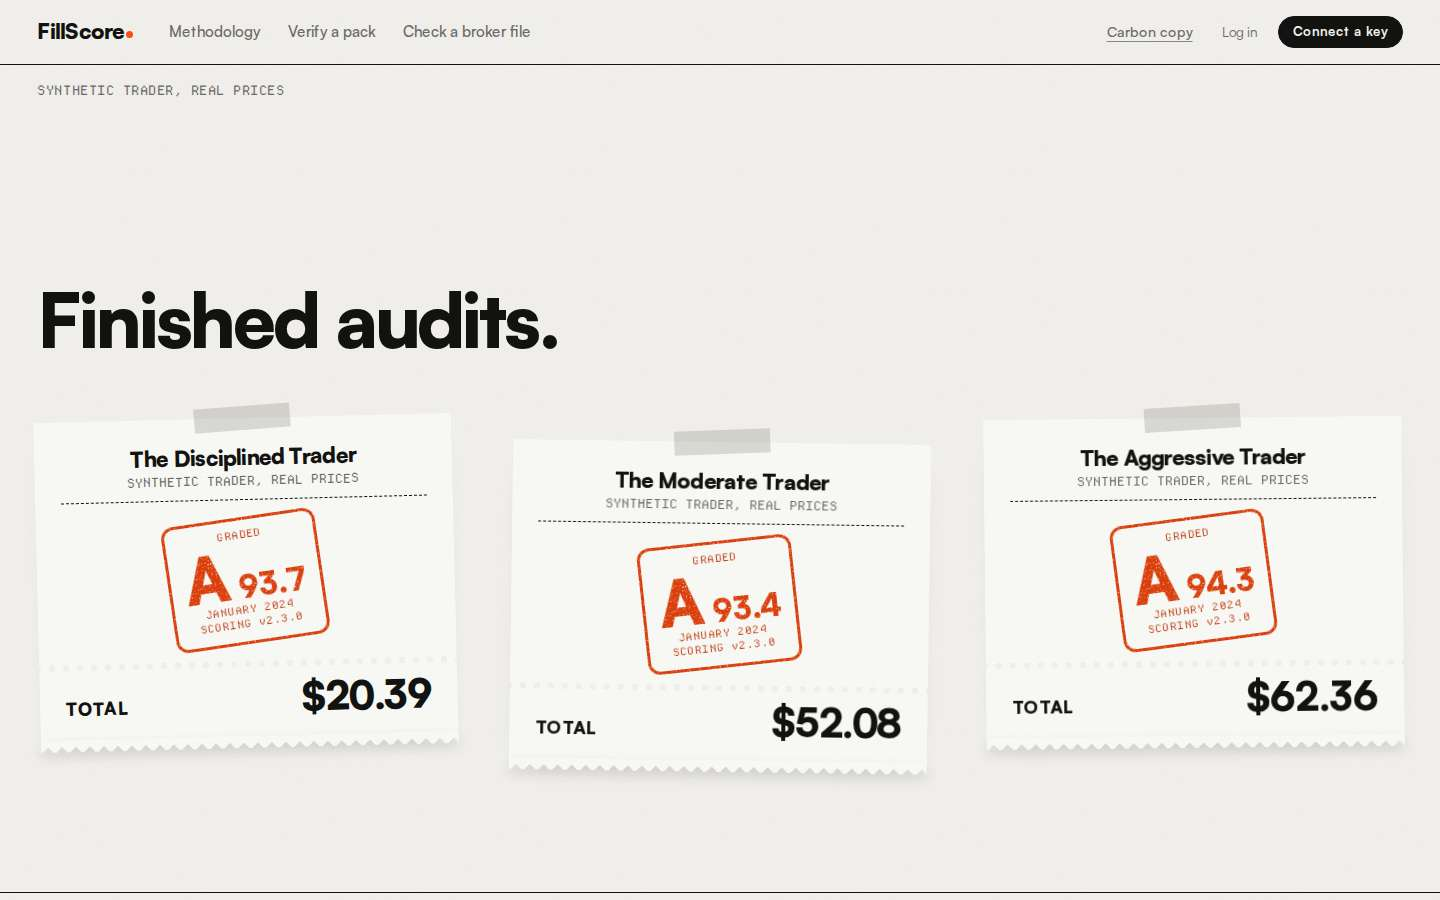
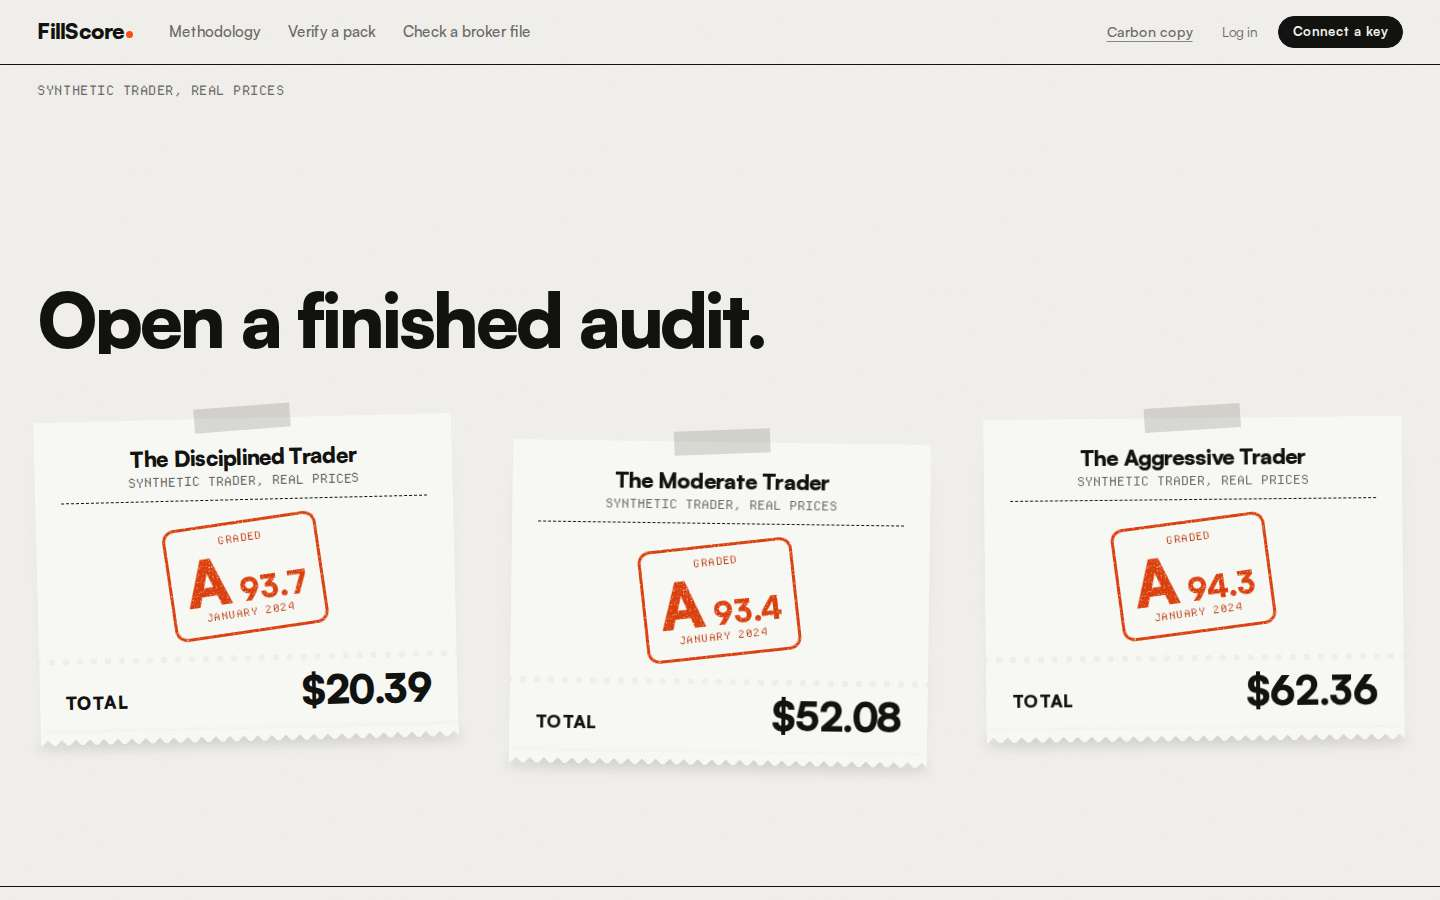
design v3.1 QA: reviewer fixes, final images, M8 report, progress

diff --git a/frontend/app/dashboard/Overview.tsx b/frontend/app/dashboard/Overview.tsx
@@ -48,7 +48,7 @@ function Total({ headline, periodLabel, sampleNote }: Pick<OverviewProps, 'headl
   return (
     <Chapter n={1} label="Total" title={`What the orders paid, ${periodLabel}`} id="total" testId="headline" className="border-t-0 pt-0">
       {sampleNote ? (
-        <p data-testid="sample-line" className="mb-5 flex flex-wrap items-center gap-x-2 gap-y-1 font-mono text-[13px] tracking-[0.04em] text-ui-ink uppercase">
+        <p data-testid="sample-line" className="mb-8 font-mono text-[13px] tracking-[0.04em] text-ui-ink uppercase">
           <span>Sample data: synthetic trader, real prices</span>
           <MarginNote label="sample data">
             <p>{sampleNote}</p>
@@ -63,7 +63,7 @@ function Total({ headline, periodLabel, sampleNote }: Pick<OverviewProps, 'headl
             style={{ fontSize: `min(15rem, calc(100cqi / ${(formatUsd(headline.totalUsd).length * 0.6).toFixed(2)}))` }}>
             <SplitFigure value={headline.totalUsd} text={formatUsd(headline.totalUsd)} format={USD_FORMAT} />
           </p>
-          <p className="mt-7 flex flex-wrap items-baseline gap-x-2 text-[clamp(1.25rem,1.9vw,1.625rem)] leading-snug font-bold tracking-[-0.02em] text-ui-ink">
+          <p className="mt-7 text-[clamp(1.25rem,1.9vw,1.625rem)] leading-snug font-bold tracking-[-0.02em] text-ui-ink">
             <span>The {headline.orders.toLocaleString('en-US')} {headline.orders === 1 ? 'order' : 'orders'} paid{' '}
               <Figure value={headline.totalUsd} text={formatUsd(headline.totalUsd)} format={USD_FORMAT} /> in total.</span>
             <MarginNote label="the total in basis points">
@@ -113,7 +113,7 @@ function Grade({ grade, band, v1, v1Note, periodLabel, account }: Pick<OverviewP
   }, [play, ref])
   return (
     <Chapter n={2} label="Grade" title="Measured grade" id="grade">
-      <div ref={ref} className="flex flex-col items-start gap-6 sm:flex-row sm:items-center sm:gap-12">
+      <div ref={ref} className="flex flex-col items-start gap-6 pt-6 sm:flex-row sm:items-center sm:gap-12">
         {grade?.kind === 'graded' ? (
           // below the desktop layout the stamp's -7° turn swings its top-left corner past its box (design v3 fixes A10)
           <div className="py-4 pl-5 sm:pl-2">
@@ -126,7 +126,7 @@ function Grade({ grade, band, v1, v1Note, periodLabel, account }: Pick<OverviewP
         ) : <div className="h-[230px] w-[280px]" aria-label="Loading the measured grade" />}
         <div className="flex max-w-[34ch] flex-col gap-3">
           {grade?.kind === 'graded' ? (
-            <p className="flex flex-wrap items-baseline gap-x-2 text-[20px] leading-snug font-bold tracking-[-0.02em] text-ui-ink">
+            <p className="text-[20px] leading-snug font-bold tracking-[-0.02em] text-ui-ink">
               <span>Graded {grade.letter}, {formatScore(grade.score)} of 100.</span>
               <MarginNote label="the measured score">
                 <p>Measured score, scoring {grade.scoringVersion}{band ? `; band ${formatScore(band[0])} to ${formatScore(band[1])}` : ''}.</p>
@@ -134,8 +134,9 @@ function Grade({ grade, band, v1, v1Note, periodLabel, account }: Pick<OverviewP
               </MarginNote>
             </p>
           ) : null}
-          <p data-testid="score-v1-label" className="flex flex-wrap items-baseline gap-x-2 text-[16px] text-ui-graphite">
-            {v1 ? <span>Rule-based score, grade {v1.grade}</span> : <span>Rule-based score (v1): not computed for this data.</span>}
+          <p data-testid="score-v1-label" className="text-[16px] text-ui-graphite">
+            {/* design v3.1 review: the visible line says it is the frozen v1 grade, so A beside B reads as two scorings */}
+            {v1 ? <span>Rule-based score, grade {v1.grade} (v1, frozen)</span> : <span>Rule-based score (v1): not computed for this data.</span>}
             {v1 ? (
               <MarginNote label="the rule-based score">
                 <p data-testid="score-v1-detail">{formatScore(v1.score)} of 100, {v1.basis ?? 'published grade of the earlier demo data, scoring v1'}.</p>
@@ -300,7 +301,7 @@ function Expected({ c, account }: { c: CostVsExpected | undefined; account: stri
       <h3 id="cost-vs-expected-t" className="sr-only">Cost against expected</h3>
       {sentence && c && !c.insufficient ? (
         <div ref={ref} className="flex flex-col gap-3">
-          <p className="flex flex-wrap items-baseline gap-x-2 text-[20px] leading-snug font-bold tracking-[-0.02em] text-ui-ink">
+          <p className="text-[20px] leading-snug font-bold tracking-[-0.02em] text-ui-ink">
             <span>Market orders paid <Fig text={formatSignedBps(c.paidBps)} exact={exactTitle(c.paidBps, 'bps')} /> against <Fig text={formatSignedBps(c.expectedBps)} exact={exactTitle(c.expectedBps, 'bps')} /> expected.</span>
             <MarginNote label="cost against expected">
               <p data-testid="cost-sentence">{sentence}</p>
@@ -337,8 +338,9 @@ function Outcomes({ ordersBody }: { ordersBody: unknown }) {
         <ValueState state="not-computed" label="Order outcomes" reason="No orders were recorded for these fills." />
       ) : (
         <div className="flex flex-col gap-4">
-          <p className="flex flex-wrap items-baseline gap-x-2 text-[20px] leading-snug font-bold tracking-[-0.02em] text-ui-ink">
-            <span>Orders {(counts?.orders ?? o.total).toLocaleString('en-US')}</span>
+          {/* demoted (design v3.1 review): the ruler carries chapter 05; the outcomes are its second, quieter line */}
+          <p className="text-[16px] text-ui-graphite">
+            <span>How the {(counts?.orders ?? o.total).toLocaleString('en-US')} orders ended</span>
             <MarginNote label="order outcomes">
               {counts ? <p data-testid="orders-counts">{fillsLine(counts)}</p> : null}
               <p>How each order ended, from the exchange&rsquo;s order records.{per > 1 ? ` One stroke stands for ${per} orders.` : ''}</p>

diff --git a/frontend/app/components/marketing/HowItReads.tsx b/frontend/app/components/marketing/HowItReads.tsx
@@ -72,7 +72,7 @@ export function HowItReads() {
       <p className="fs-reads-prov font-mono text-[13px] tracking-[0.04em] text-ui-graphite">SYNTHETIC TRADER, REAL PRICES</p>
       <div ref={track} className="fs-reads-row">
         <article className="fs-reads-panel">
-          <p className="font-mono text-[13px] tracking-[0.04em] text-ui-graphite">01</p>
+          <p className="fs-reads-num font-mono text-[13px] tracking-[0.04em] text-ui-graphite">01</p>
           <h3 data-panel-title className="display-md text-ui-ink">What we read.</h3>
           <p className="max-w-[30ch] text-[18px] leading-snug text-ui-ink">Every print, to the second.</p>
           <div className="fs-strip fs-sprockets fs-reads-tape" role="img" aria-label={`Seven public ${heroTape.symbol} prints from the order above, Binance, 28 January 2024`}>
@@ -82,10 +82,13 @@ export function HowItReads() {
           </div>
         </article>
         <article className="fs-reads-panel">
-          <p className="font-mono text-[13px] tracking-[0.04em] text-ui-graphite">02</p>
+          <p className="fs-reads-num font-mono text-[13px] tracking-[0.04em] text-ui-graphite">02</p>
           <h3 data-panel-title className="display-md text-ui-ink">What it cost.</h3>
           <p className="max-w-[30ch] text-[18px] leading-snug text-ui-ink">Each order, in dollars.</p>
           <div className="fs-receipt fs-reads-receipt shadow-ui">
+            {/* invariant 4: a demo receipt carries its own provenance line (design v3.1 review) */}
+            <p className="c g">SYNTHETIC TRADER, REAL PRICES</p>
+            <hr />
             <div className="fs-lines">
               <span className="g">01</span><span className="lab">Spread</span><span className="num" /><span className="num">{formatUsd(heroCosts.spread.usd)}</span>
               <span className="g">02</span><span className="lab">Impact and timing</span><span className="num" /><span className="num">{formatUsd(heroCosts.impactTiming.usd)}</span>
@@ -96,7 +99,7 @@ export function HowItReads() {
           </div>
         </article>
         <article className="fs-reads-panel">
-          <p className="font-mono text-[13px] tracking-[0.04em] text-ui-graphite">03</p>
+          <p className="fs-reads-num font-mono text-[13px] tracking-[0.04em] text-ui-graphite">03</p>
           <h3 data-panel-title className="display-md text-ui-ink">The grade.</h3>
           <p className="max-w-[30ch] text-[18px] leading-snug text-ui-ink">One letter, stamped once.</p>
           <div className="flex min-h-[220px] items-center pl-4">

diff --git a/frontend/app/components/marketing/CheckIt.tsx b/frontend/app/components/marketing/CheckIt.tsx
@@ -18,6 +18,7 @@ const ROWS = [
 ]
 const LINKS = [
   { href: '/verify', title: 'Verify a pack', text: 'Drop a pack in; each hash and the signature are checked in the browser.' },
+  { href: 'https://github.com/DeepanshuOP/FillScore/tree/main/packages/fillscore-metrics', title: 'fillscore-metrics', text: 'The open measurement package.' },
 ]
 
 export function CheckIt() {
@@ -36,9 +37,10 @@ export function CheckIt() {
         <div>
           <h2 id="check-title" data-split className="display-lg text-ui-ink">Check it yourself.</h2>
           <p className="mt-4 max-w-[52ch] text-[17px] leading-7 text-ui-graphite">
-            Every audit ships signed.{' '}
+            Real audits can ship signed.
             <MarginNote label="the evidence pack">
               <p>An evidence pack lists every file behind an audit with its SHA-256 and signs the list with Ed25519. Anyone can check a pack in the browser; the file never leaves it.</p>
+              <p>Demo audits have no pack: nothing of a synthetic trader is signed. The sample beside lists the real sources of the order above.</p>
               <p>The signature covers the list, not each file: each file is checked against its hash.</p>
             </MarginNote>
           </p>
@@ -56,7 +58,7 @@ export function CheckIt() {
 
         <div ref={ref} className="fs-envelope" data-open={seen} aria-label="A manifest of file hashes and its signature">
           <div className="fs-env-sheet">
-            <p className="font-mono text-[11px] tracking-[0.06em] text-ui-graphite uppercase">manifest.json</p>
+            <p className="font-mono text-[11px] tracking-[0.06em] text-ui-graphite uppercase">sample manifest.json</p>
             <ul className="mt-3 border-t border-dashed border-ui-ink font-mono text-[12px]">
               {ROWS.map((r, i) => (
                 <li key={r.hash} className="grid grid-cols-[2.5rem_minmax(0,1fr)] gap-x-2 border-b border-dashed border-ui-rule py-2.5">

diff --git a/frontend/app/ui/charts/CostRuler.tsx b/frontend/app/ui/charts/CostRuler.tsx
@@ -44,7 +44,7 @@ export function CostRuler({ diff, low, high, labels, n, draw = false }: {
             {ticks.map((v) => (
               <g key={v}>
                 <line x1={x(v)} x2={x(v)} y1={Y} y2={Y + (Math.abs(v) < 1e-9 ? 10 : 6)} stroke="var(--ui-graphite)" />
-                <text x={x(v)} y={Y + 22} textAnchor="middle" className="fill-ui-graphite font-mono text-[10px]">{fmt(v)}</text>
+                <text x={x(v)} y={Y + 22} textAnchor="middle" className="fill-ui-graphite font-mono text-[11px]">{fmt(v)}</text>
               </g>
             ))}
             {hasRange ? (
@@ -55,12 +55,13 @@ export function CostRuler({ diff, low, high, labels, n, draw = false }: {
             ) : null}
             <circle cx={x(0)} cy={Y} r={5.5} fill="var(--ui-raised)" stroke="var(--ui-ink)" strokeWidth={1.5} />
             <circle cx={x(diff)} cy={Y} r={5} fill="var(--ui-ink)" />
-            <text x={x(diff) + (paidLeft ? -8 : 8)} y={Y + 40} textAnchor={paidLeft ? 'end' : 'start'} className="fill-ui-ink text-[13px] font-bold">paid {labels.diff}</text>
+            <text x={x(diff) + (paidLeft ? -8 : 8)} y={Y + 40} textAnchor={paidLeft ? 'end' : 'start'} className="fill-ui-ink text-[13px] font-bold">difference {labels.diff}</text>
             <text x={x(0) + (paidLeft ? 8 : -8)} y={Y + 40} textAnchor={paidLeft ? 'start' : 'end'} className="fill-ui-graphite text-[13px]">expected 0</text>
           </svg>
         ) : null}
       </div>
-      <figcaption className="font-mono text-[11px] text-ui-graphite">PAID MINUS EXPECTED, BPS. n = {n} market orders</figcaption>
+      {/* design v3.1 review: a caption is set in the sans; the dot is the difference, not the paid cost */}
+      <figcaption className="text-[13px] text-ui-graphite">Paid minus expected, in bps, over {n} market orders. Zero is the expected cost.</figcaption>
     </figure>
   )
 }

diff --git a/frontend/app/dashboard/costStrip.test.ts b/frontend/app/dashboard/costStrip.test.ts
@@ -16,11 +16,14 @@ describe('describeStrip', () => {
       ['Measured against market prices', '$10.10', '19.398%', false, true],   // 0.19398113757 x 100 = 19.398
       ['Fees, at the published rate', '$41.98', '80.602%', true, true],      // 0.80601886243 x 100 = 80.602
     ])
-    expect(v.sentence).toBe('Fees were $41.98 of the $52.08.')
+    // the unmeasured fee names its basis in the sentence too (design v3.1 review)
+    expect(v.sentence).toBe('Fees, at the published rate, were $41.98 of the $52.08.')
   })
 
   it('a real account: fees are measured, so not dashed', () => {
-    expect(describeStrip(BODY, false)!.parts[1]).toMatchObject({ label: 'Fees', dashed: false })
+    const v = describeStrip(BODY, false)!
+    expect(v.parts[1]).toMatchObject({ label: 'Fees', dashed: false })
+    expect(v.sentence).toBe('Fees were $41.98 of the $52.08.')
   })
 
   it('a negative part has no width', () => {
@@ -28,6 +31,8 @@ describe('describeStrip', () => {
     const v = describeStrip({ available: true, strip: { totalUsd: 5, segments: [{ key: 'market', usd: -3, share: 0 }, { key: 'fees', usd: 8, share: 1 }] } }, false)!
     expect(v.parts[0]).toMatchObject({ amount: '−$3.00', drawn: false, width: '0.000%' })
     expect(v.parts[1]).toMatchObject({ width: '100.000%', drawn: true })
+    // fees ($8) exceed the total ($5): the sentence states all three figures as served, never "fees were $8 of the $5"
+    expect(v.sentence).toBe('Fees were $8.00; measured against market prices the cost was −$3.00, a price improvement; $5.00 in total.')
   })
 
   it('is null when the server sent no strip or a malformed one', () => {

diff --git a/frontend/app/dashboard/MonthTape.tsx b/frontend/app/dashboard/MonthTape.tsx
@@ -140,7 +140,7 @@ export function MonthTape({ query, request, period, periodLabel, onOpen, account
   }
 
   const head = (
-    <p className="mb-4 flex flex-wrap items-baseline gap-x-2 text-[20px] leading-snug font-bold tracking-[-0.02em] text-ui-ink">
+    <p className="mb-4 text-[20px] leading-snug font-bold tracking-[-0.02em] text-ui-ink">
       <span>Each mark is one order; its height is what it cost.</span>
       <MarginNote label="reading the tape">
         <p>Height: the order&rsquo;s total cost in dollars, on one scale; a price improvement is drawn below the line; a short dashed mark is an order with no measured cost.</p>
@@ -243,7 +243,8 @@ const Bars = memo(function Bars({ ticks, days, x, base, zero, D, active, wideLab
       {days.map((d) => (
         <g key={d.t}>
           <line x1={x(d.t)} x2={x(d.t)} y1={base + 2} y2={base + 7} stroke="var(--ui-rule)" />
-          {(d.day % 2 === 1 && wideLabels) || d.day % 5 === 1 ? <text x={x(d.t) + 3} y={base + 18} className="fill-ui-graphite font-mono text-[10px]">{d.day}</text> : null}
+          {/* evenly stepped day labels: every odd day on a wide tape, else 1, 6, 11, ... (design v3.1 review) */}
+          {(wideLabels ? d.day % 2 === 1 : d.day % 5 === 1) ? <text x={x(d.t) + 3} y={base + 18} className="fill-ui-graphite font-mono text-[11px]">{d.day}</text> : null}
         </g>
       ))}
       <line x1={x(0)} x2={x(1)} y1={zero} y2={zero} stroke="var(--ui-rule)" vectorEffect={ve} />

diff --git a/frontend/app/ui/MarginNote.tsx b/frontend/app/ui/MarginNote.tsx
@@ -67,8 +67,10 @@ export function MarginNote({ label, children, className }: { label: string; chil
   const hoverOut = () => { clear(); timer.current = setTimeout(() => set(false), CLOSE_DELAY) }
   const isMark = useCallback((t: EventTarget | null) => !!btn.current && t instanceof Node && btn.current.contains(t), [])
 
+  // a no-break space glues the mark to the word before it, so it never wraps onto a line of its own (place the note
+  // straight after the text, with no space of its own)
   return (
-    <span className="relative inline-flex align-baseline">
+    <span className="whitespace-nowrap">{' '}<span className="relative inline-flex align-baseline">
       <button ref={btn} type="button" aria-label={`Note: ${label}`} data-margin-note="" aria-expanded={open} aria-haspopup="dialog" aria-controls={open ? id : undefined}
         className={cn('fs-note-mark inline-flex size-6 shrink-0 translate-y-[3px] items-center justify-center rounded-full text-ui-pen-ink', className)}
         onPointerEnter={(e) => { if (e.pointerType === 'mouse' && fine) hoverIn() }}
@@ -87,6 +89,6 @@ export function MarginNote({ label, children, className }: { label: string; chil
           <Popup fine={fine} open={open} onOpenChange={set} label={label} id={id} isMark={isMark} onPointerEnter={clear} onPointerLeave={hoverOut}>{children}</Popup>
         </Suspense>
       ) : null}
-    </span>
+    </span></span>
   )
 }

diff --git a/frontend/app/components/marketing/TapeHero.tsx b/frontend/app/components/marketing/TapeHero.tsx
@@ -118,14 +118,14 @@ export function TapeHero() {
         <div>
           {/* design v3.1: one sentence; where the prints come from is in the pen margin note */}
           <p className="mb-5 max-w-[42ch] text-[17px] leading-normal text-ui-ink max-sm:text-[15px]">
-            FillScore writes down what each fill cost against the exchange&apos;s public prints.{' '}
+            FillScore writes down what each fill cost against the exchange&apos;s public prints.
             <MarginNote label="the prints on this tape">
               <p>{heroTape.symbol} on Binance, 28 January 2024, {utcTime(ENTRIES[0].ts).slice(0, 8)} to {utcTime(ENTRIES[ENTRIES.length - 1].ts).slice(0, 8)} UTC: {PRINTS} public prints from the daily trades file.</p>
               <p className="fs-note-field">sha256 {heroTape.sourceSha256}</p>
               <p>A filled triangle marks a buyer-initiated print, a hollow one a seller-initiated print.</p>
               <p>The {heroTape.side.toLowerCase()} order is a synthetic trader&apos;s; the prices are real.</p>
             </MarginNote>
-            {' '}Past only, never advice.
+            {' '}It never advises.
           </p>
           <div className="flex flex-wrap gap-2.5">
             <Link href="/dashboard?userId=demo-moderate" className={buttonClass('primary', 'lg', 'no-underline')}>Open the demo</Link>

diff --git a/frontend/app/dashboard/costStrip.ts b/frontend/app/dashboard/costStrip.ts
@@ -31,6 +31,13 @@ export function describeStrip(body: unknown, feesNotMeasured: boolean): StripVie
     })
   }
   const fees = parts.find((p) => p.key === 'fees')
-  const sentence = fees && fees.usd > 0 ? `Fees were ${fees.amount} of the ${formatUsd(s.strip.totalUsd)}.` : `The orders paid ${formatUsd(s.strip.totalUsd)}.`
+  const market = parts.find((p) => p.key === 'market')
+  const total = formatUsd(s.strip.totalUsd)
+  // the fee figure names its basis when it was not measured (design v3.1 review); when the market part is a price
+  // improvement larger than the other costs, fees exceed the total, so the sentence states all three as served
+  const feesName = fees?.dashed ? 'Fees, at the published rate,' : 'Fees'
+  const sentence = fees && market && market.usd < 0
+    ? `${feesName} were ${fees.amount}; measured against market prices the cost was ${market.amount}, a price improvement; ${total} in total.`
+    : fees && fees.usd > 0 ? `${feesName} were ${fees.amount} of the ${total}.` : `The orders paid ${total}.`
   return { parts, sentence }
 }

diff --git a/frontend/e2e/removed-demos.spec.ts b/frontend/e2e/removed-demos.spec.ts
@@ -11,7 +11,7 @@ test('/share/demo-bybit shows the "no longer available" state', async ({ page })
 test('demo picker lists only the three remaining demos', async ({ page }) => {
   await page.goto('/')
   // the picker sits in a card that fades in on scroll, so assert on attached DOM text, not visibility
-  await expect(page.getByRole('heading', { name: 'Finished audits.' })).toHaveCount(1)   // design v3.1: the picker's heading (its lede was cut)
+  await expect(page.getByRole('heading', { name: 'Open a finished audit.' })).toHaveCount(1)   // design v3.1: the picker's heading (its lede was cut)
   const text = await page.evaluate(() => document.body.textContent ?? '')
   for (const id of REMOVED) expect(text).not.toContain(id)
   await expect(page.getByText('The Bybit Trader')).toHaveCount(0)

diff --git a/frontend/app/ui/GradeStamp.tsx b/frontend/app/ui/GradeStamp.tsx
@@ -30,7 +30,8 @@ export function GradeStamp({ grade, score, period, version, size = 'lg', classNa
       aria-label={`Graded ${grade}, ${formatScore(score)} of 100, ${period}, scoring ${version}`}>
       <div className="top" aria-hidden="true">GRADED</div>
       <div className="mid" aria-hidden="true"><span className="g">{grade}</span><span className="s">{formatScore(score)}</span></div>
-      <div className="bot" aria-hidden="true">{period.toUpperCase()}<br />SCORING {version}</div>
+      {/* design v3.1: the small stamp (landing demo receipts) prints the period only; the version stays in its label */}
+      <div className="bot" aria-hidden="true">{period.toUpperCase()}{size === 'sm' ? null : <><br />SCORING {version}</>}</div>
       {children}
     </div>
   )

diff --git a/frontend/e2e/rebuilt-demo.spec.ts b/frontend/e2e/rebuilt-demo.spec.ts
@@ -35,7 +35,7 @@ test('dashboard of a rebuilt demo: v1-only views say "not computed", measured vi
   // measured views
   const orders = page.getByTestId('orders-panel')
   await expect(orders).toBeVisible()
-  await expect(orders).toContainText(/Orders\s*5(?!\d)/)
+  await expect(orders).toContainText(/How the 5 orders ended/)   // design v3.1 review wording
   await expect(orders).toContainText(/Filled\s*3(?!\d)/)
   await expect(orders).toContainText(/Unfilled\s*1(?!\d)/)
   // design v3.1: resting times and the unfilled note are in the outcomes fold, the medians in the "Lines" fold
